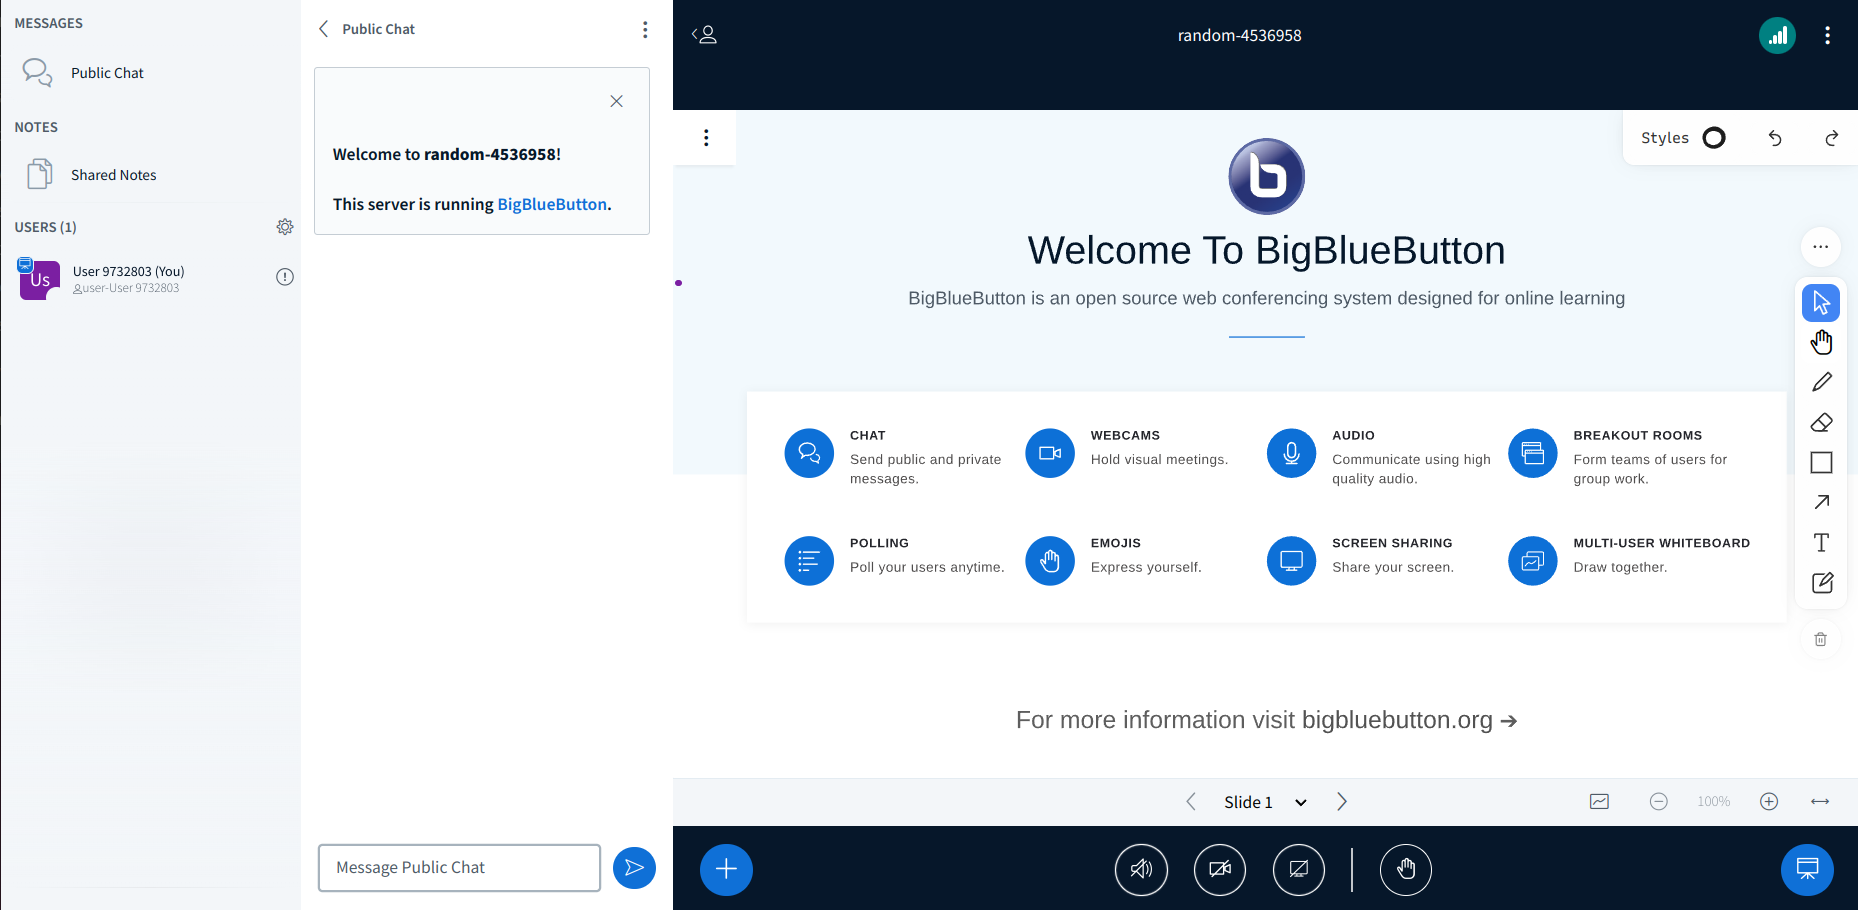
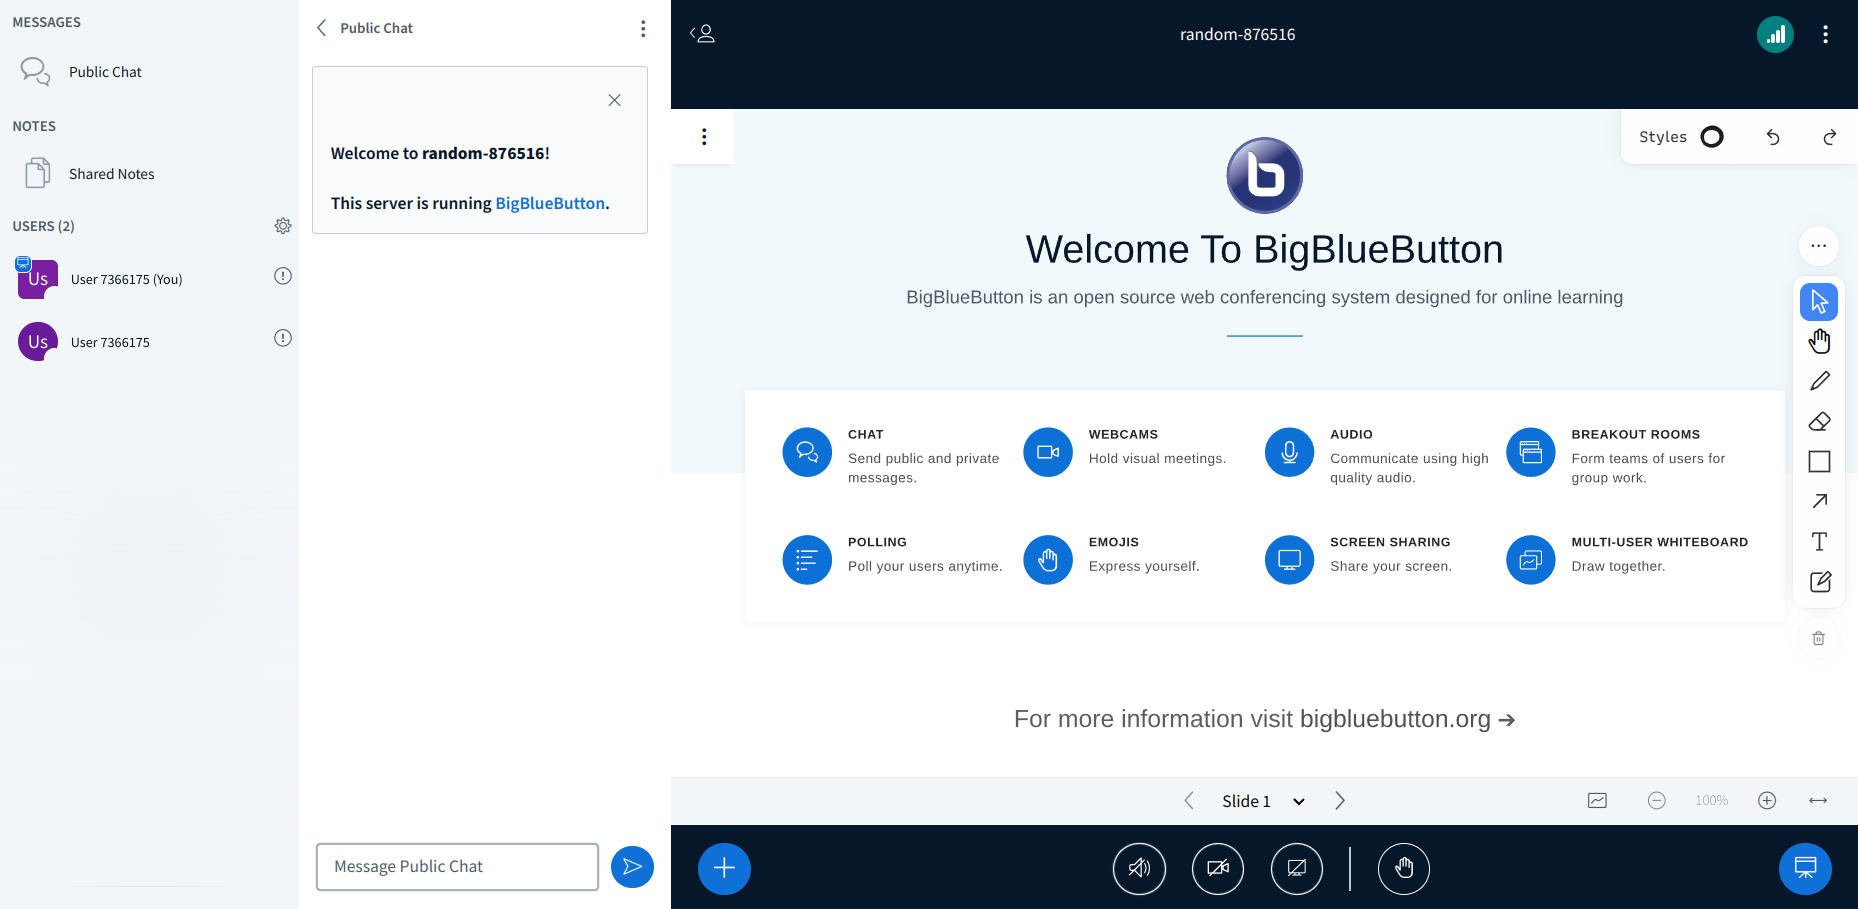
[issue-26]

diff --git a/samples/sample-user-list-item-additional-information-plugin/src/sample-user-list-icon-plugin-item/style.css b/samples/sample-user-list-item-additional-information-plugin/src/sample-user-list-icon-plugin-item/style.css
@@ -1,0 +1,112 @@
+.plugin-modal {
+    position: relative;
+    z-index: 1000 !important;
+
+    outline: transparent;
+    outline-width: 2px;
+    outline-style: solid;
+    display: flex;
+    flex-direction: column;
+    padding: 2rem;
+    box-shadow: 0px 0px 20px rgba(0, 0, 0, 0.7);
+    background-color: #FFF !important;
+    max-width: 60vw;
+    max-height: 100%;
+    border-radius: .2rem;
+    overflow: auto;
+
+    overflow-y: hidden;
+
+    background-repeat: no-repeat;
+    background-color: transparent;
+    background-size: 100% 40px, 100% 40px, 100% 14px, 100% 14px;
+    background-attachment: local, local, scroll, scroll;
+
+    &::-webkit-scrollbar {
+        width: 5px;
+        height: 5px;
+    }
+    &::-webkit-scrollbar-button {
+        width: 0;
+        height: 0;
+    }
+    &::-webkit-scrollbar-thumb {
+        background: rgba(0,0,0,.25);
+        border: none;
+        border-radius: 50px;
+    }
+    &::-webkit-scrollbar-thumb:hover { background: rgba(0,0,0,.5); }
+    &::-webkit-scrollbar-thumb:active { background: rgba(0,0,0,.25); }
+    &::-webkit-scrollbar-track {
+        background: rgba(0,0,0,.25);
+        border: none;
+        border-radius: 50px;
+    }
+    &::-webkit-scrollbar-track:hover { background: rgba(0,0,0,.25); }
+    &::-webkit-scrollbar-track:active { background: rgba(0,0,0,.25); }
+    &::-webkit-scrollbar-corner { background: 0 0; }
+
+    @media only screen and (max-width: 40em) {
+        max-width: 95vw;
+    }
+
+    @media only screen and (min-width: 40.063em) {
+        max-width: 80vw;
+    }
+}
+
+.modal-overlay {
+    z-index: 1000;
+    display: flex;
+    align-items: center;
+    justify-content: center;
+    position: fixed;
+    top: 0;
+    left: 0;
+    right: 0;
+    bottom: 0;
+    background-color: rgba(6, 23, 42, 0.75);
+}
+
+.text {
+    font-size: 20px;
+    margin: 0.6rem auto;
+}
+
+
+.button-style {
+    border: 3px solid transparent;
+    overflow: visible;
+    display: inline-block;
+    border-radius: 2px;
+    font-weight: 600;
+    line-height: 1;
+    text-align: center;
+    white-space: nowrap;
+    vertical-align: middle;
+    cursor: pointer;
+    user-select: none;
+    padding: 8px 15px;
+}
+
+.button-style:hover {
+    border: 3px solid #0F70D7;
+}
+
+.user-info-modal {
+    width: 70%;
+    margin-bottom: 15px;
+    border-collapse: collapse;
+}
+
+.user-info-modal td {
+    padding: 5px 8px;
+}
+
+.table-right {
+    font-weight: bold;
+}
+
+.table-left {
+    text-align: right;
+}

diff --git a/samples/sample-user-list-item-additional-information-plugin/src/sample-user-list-icon-plugin-item/component.tsx b/samples/sample-user-list-item-additional-information-plugin/src/sample-user-list-icon-plugin-item/component.tsx
@@ -1,0 +1,47 @@
+import * as React from 'react';
+import { useEffect } from 'react';
+
+import * as BbbPluginSdk from 'bigbluebutton-html-plugin-sdk';
+import { SampleUserListItemAdditionalInformationPluginProps } from './types';
+
+function SampleUserListItemAdditionalInformationPlugin({
+  pluginUuid: uuid,
+}: SampleUserListItemAdditionalInformationPluginProps): React.ReactElement<SampleUserListItemAdditionalInformationPluginProps> {
+  const pluginApi: BbbPluginSdk.PluginApi = BbbPluginSdk.getPluginApi(uuid);
+  const loadedUserList = BbbPluginSdk.useLoadedUserList();
+
+  useEffect(() => {
+    if (loadedUserList !== undefined && loadedUserList.length > 0) {
+      const listOfUserListIconToSend:
+      Array<BbbPluginSdk.UserListItemIcon> = loadedUserList.map(
+        (user) => {
+          const userListItemIcon:
+            BbbPluginSdk.UserListItemIcon = new BbbPluginSdk.UserListItemIcon({
+              icon: 'warning',
+              userId: user.userId,
+            });
+          return userListItemIcon as BbbPluginSdk.UserListItemIcon;
+        },
+      );
+      
+      const listOfUserListLabelToSend:
+      Array<BbbPluginSdk.UserListItemIcon> = loadedUserList.map(
+        (user) => {
+          const userListItemLabel:
+            BbbPluginSdk.UserListItemIcon = new BbbPluginSdk.UserListItemLabel({
+              label: `user-${user.name}`,
+              icon: 'user',
+              userId: user.userId,
+            });
+          return userListItemLabel as BbbPluginSdk.UserListItemIcon;
+        },
+      );
+
+      pluginApi.setUserListItemAdditionalInformation([...listOfUserListIconToSend, ...listOfUserListLabelToSend]);
+    }
+  }, [loadedUserList]);
+
+  return null;
+}
+
+export default SampleUserListItemAdditionalInformationPlugin;

diff --git a/samples/sample-user-list-item-additional-information-plugin/src/index.tsx b/samples/sample-user-list-item-additional-information-plugin/src/index.tsx
@@ -1,6 +1,6 @@
 import * as React from 'react';
 import * as ReactDOM from 'react-dom/client';
-import SampleUserListItemAdditionalInformationPlugin from './sample-user-list-item-additional-information-plugin/component';
+import SampleUserListItemAdditionalInformationPlugin from './sample-user-list-icon-plugin-item/component';
 
 const uuid = document.currentScript?.getAttribute('uuid') || 'root';
 

diff --git a/samples/sample-user-list-item-additional-information-plugin/src/sample-user-list-icon-plugin-item/types.ts b/samples/sample-user-list-item-additional-information-plugin/src/sample-user-list-icon-plugin-item/types.ts
@@ -1,0 +1,6 @@
+interface SampleUserListItemAdditionalInformationPluginProps {
+    pluginName: string,
+    pluginUuid: string,
+}
+
+export { SampleUserListItemAdditionalInformationPluginProps };

diff --git a/samples/sample-user-list-item-additional-information-plugin/README.md b/samples/sample-user-list-item-additional-information-plugin/README.md
@@ -1,8 +1,8 @@
-# Sample User List Item Additional Information Plugin
+# Sample User List Icon Plugin
 
 ## What is it?
 
-The Sample User List Item Additional Information Plugin serves as a demonstration of how developers can create their own custom plugins, in this case each participant will have a sort of warning badge right on the user's name side. See example below
+The Sample User List Icon Plugin serves as a demonstration of how developers can create their own custom plugins, in this case each participant will have a sort of warning badge right on the user's name side. See example below
 
 ![Gif of plugin demo](./public/assets/plugin.png)
 
